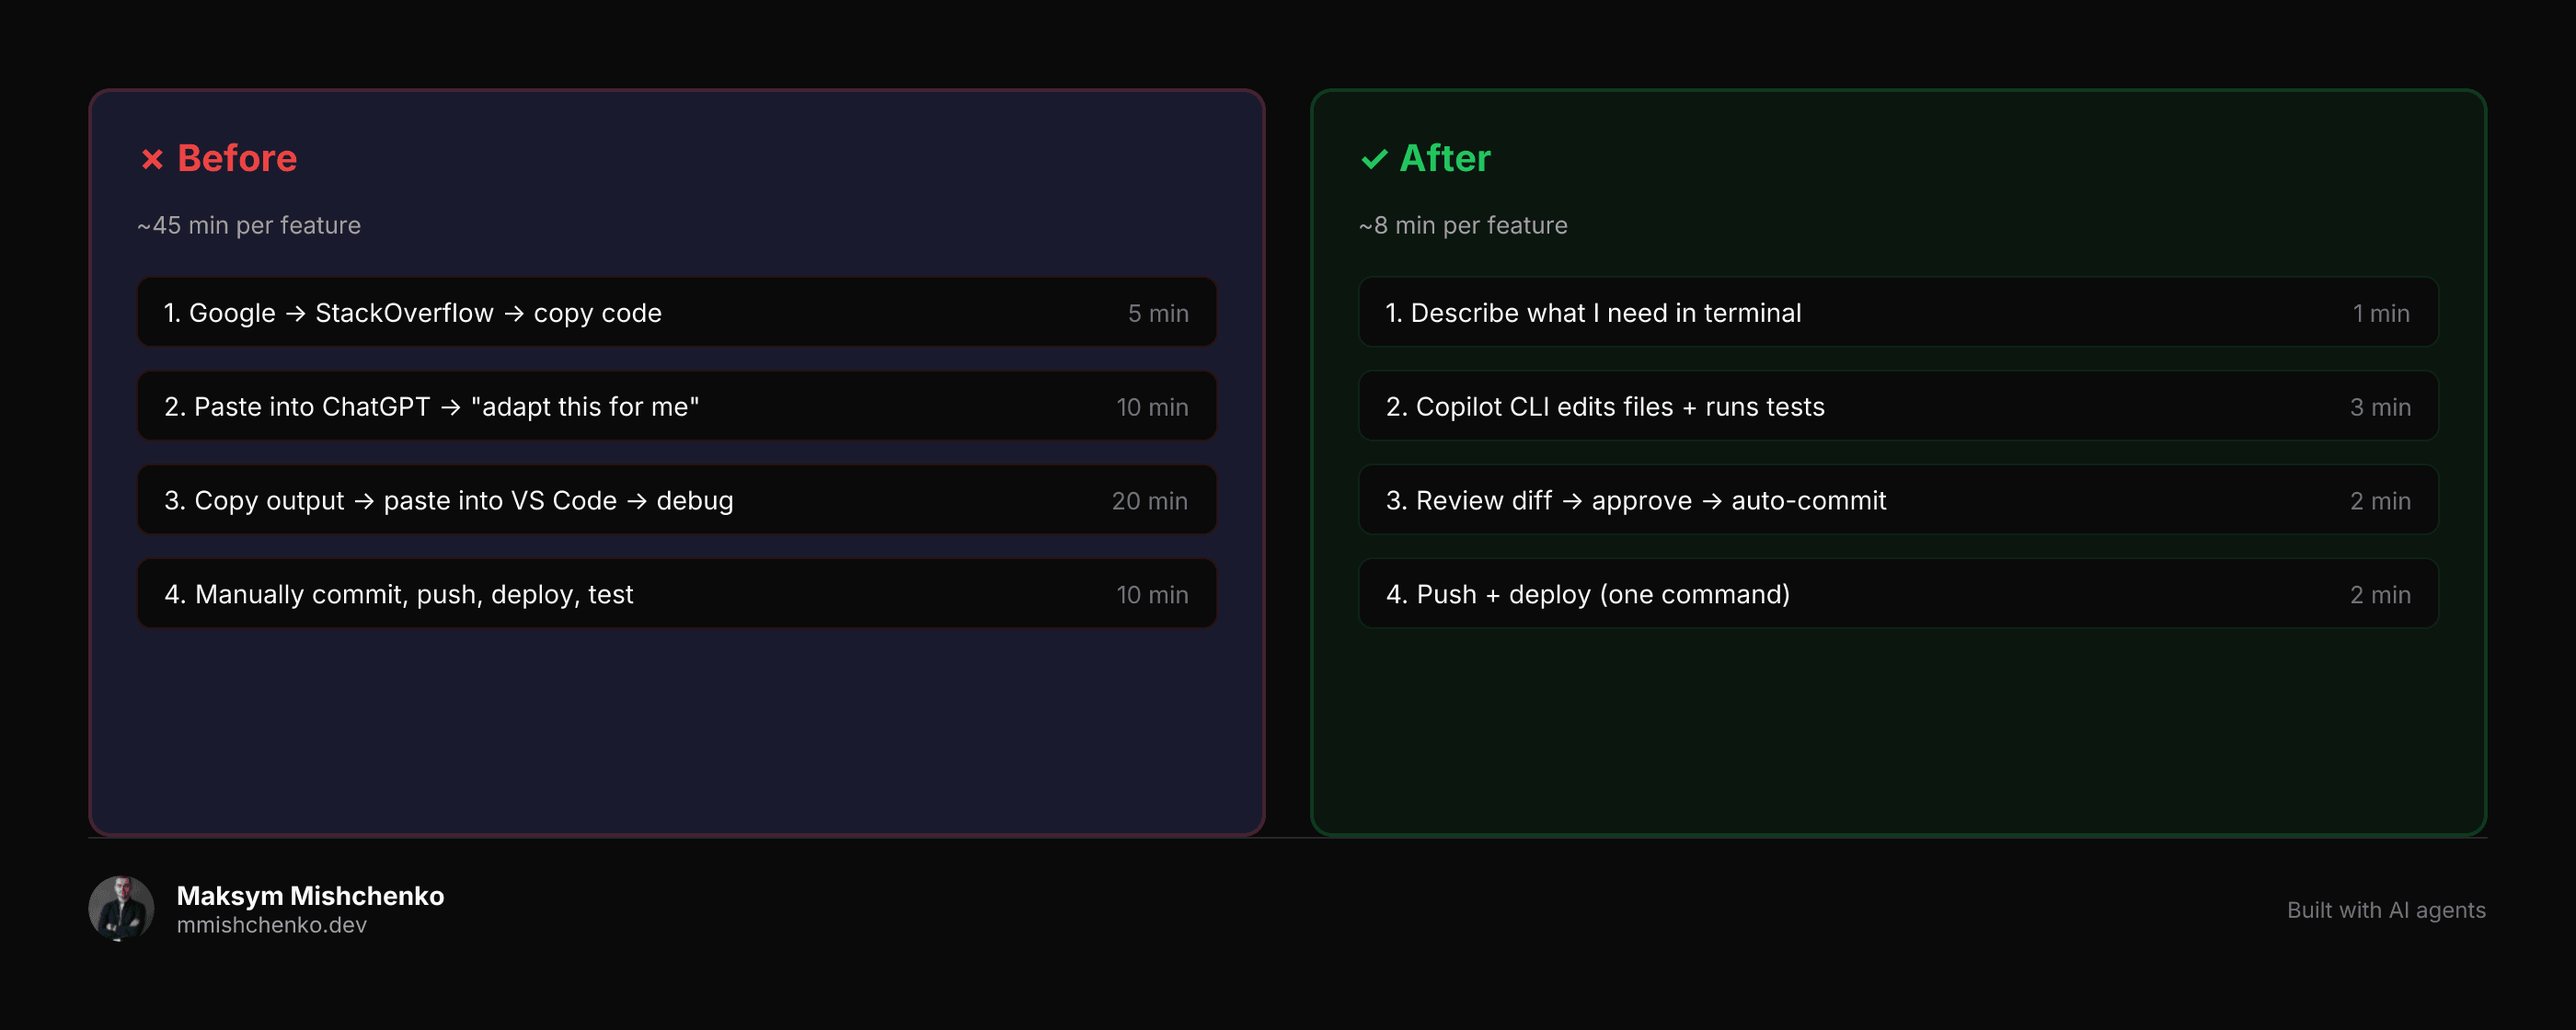
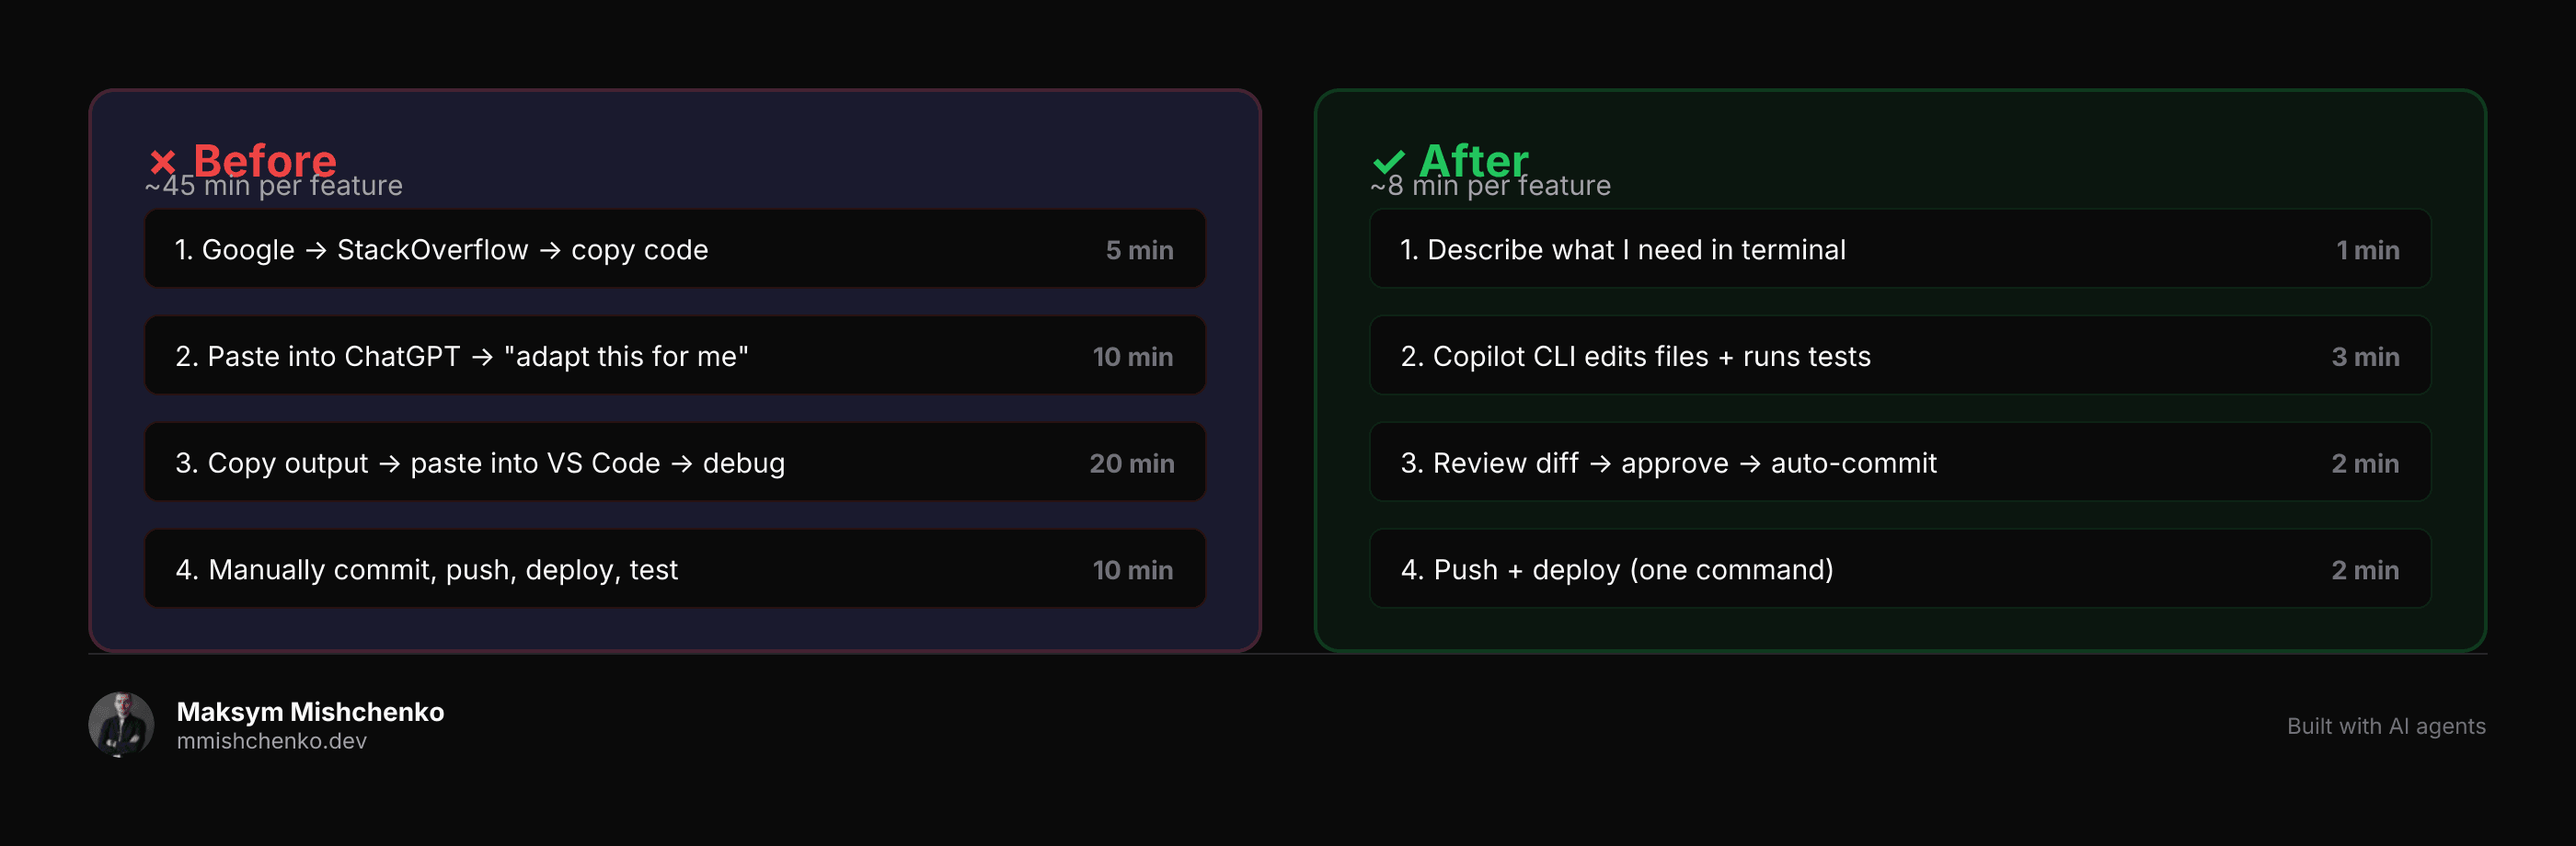
fix: improve blog image layout — center content, reduce dead space
- Vertically center all template content
- Increase font sizes for readability
- Reduce image heights (380/460/440 vs 500/560/600)
- Add stretch alignment to comparison columns

diff --git a/scripts/blog-images/generate.ts b/scripts/blog-images/generate.ts
@@ -135,14 +135,14 @@ function TimelineTemplate({ title, steps, avatar }: { title: string; steps: Time
         {
           type: "div",
           props: {
-            style: { color: COLORS.muted, fontSize: 16, letterSpacing: 2, textTransform: "uppercase", marginBottom: 32, display: "flex" },
+            style: { color: COLORS.muted, fontSize: 16, letterSpacing: 2, textTransform: "uppercase", display: "flex" },
             children: title,
           },
         },
         {
           type: "div",
           props: {
-            style: { display: "flex", alignItems: "center", gap: 16, flex: 1, justifyContent: "center" },
+            style: { display: "flex", alignItems: "center", gap: 20, flex: 1, justifyContent: "center" },
             children: steps.flatMap((step, i) => {
               const box = {
                 type: "div",
@@ -151,21 +151,21 @@ function TimelineTemplate({ title, steps, avatar }: { title: string; steps: Time
                     display: "flex",
                     flexDirection: "column",
                     alignItems: "center",
-                    padding: "20px 24px",
+                    padding: "24px 28px",
                     background: step.highlight ? COLORS.green + "22" : COLORS.card,
                     border: `2px solid ${step.highlight ? COLORS.green : COLORS.border}`,
-                    borderRadius: 12,
-                    minWidth: 180,
+                    borderRadius: 14,
+                    minWidth: 200,
                   },
                   children: [
-                    { type: "span", props: { style: { color: COLORS.accent, fontSize: 12, marginBottom: 4, display: "flex" }, children: step.year } },
-                    { type: "span", props: { style: { color: COLORS.text, fontSize: 18, fontWeight: 700, marginBottom: 4, display: "flex" }, children: `${step.emoji} ${step.title}` } },
-                    { type: "span", props: { style: { color: COLORS.muted, fontSize: 13, textAlign: "center", display: "flex" }, children: step.subtitle } },
+                    { type: "span", props: { style: { color: COLORS.accent, fontSize: 13, marginBottom: 6, display: "flex" }, children: step.year } },
+                    { type: "span", props: { style: { color: COLORS.text, fontSize: 20, fontWeight: 700, marginBottom: 6, display: "flex" }, children: `${step.emoji} ${step.title}` } },
+                    { type: "span", props: { style: { color: COLORS.muted, fontSize: 14, textAlign: "center", display: "flex" }, children: step.subtitle } },
                   ],
                 },
               };
               if (i < steps.length - 1) {
-                return [box, { type: "span", props: { style: { color: COLORS.dim, fontSize: 24, display: "flex" }, children: "→" } }];
+                return [box, { type: "span", props: { style: { color: COLORS.dim, fontSize: 28, display: "flex" }, children: "→" } }];
               }
               return [box];
             }),
@@ -191,15 +191,16 @@ function ComparisonTemplate({ before, after, avatar }: { before: { title: string
           display: "flex",
           flexDirection: "column",
           flex: 1,
-          padding: 24,
+          padding: 28,
           background: side === "before" ? COLORS.card : COLORS.green + "11",
           border: `2px solid ${color}33`,
-          borderRadius: 12,
-          gap: 12,
+          borderRadius: 14,
+          gap: 14,
+          justifyContent: "center",
         },
         children: [
-          { type: "div", props: { style: { color, fontSize: 20, fontWeight: 700, marginBottom: 4, display: "flex" }, children: data.title } },
-          { type: "div", props: { style: { color: COLORS.muted, fontSize: 13, marginBottom: 8, display: "flex" }, children: data.subtitle } },
+          { type: "div", props: { style: { color, fontSize: 24, fontWeight: 700, marginBottom: 4, display: "flex" }, children: data.title } },
+          { type: "div", props: { style: { color: COLORS.muted, fontSize: 15, marginBottom: 8, display: "flex" }, children: data.subtitle } },
           ...data.items.map((item, i) => ({
             type: "div",
             props: {
@@ -207,14 +208,14 @@ function ComparisonTemplate({ before, after, avatar }: { before: { title: string
                 display: "flex",
                 justifyContent: "space-between",
                 alignItems: "center",
-                padding: "10px 14px",
+                padding: "12px 16px",
                 background: COLORS.bg,
                 borderRadius: 8,
                 border: `1px solid ${color}22`,
               },
               children: [
-                { type: "span", props: { style: { color: COLORS.text, fontSize: 14, display: "flex" }, children: `${i + 1}. ${item.text}` } },
-                { type: "span", props: { style: { color: COLORS.dim, fontSize: 13, display: "flex" }, children: item.time } },
+                { type: "span", props: { style: { color: COLORS.text, fontSize: 15, display: "flex" }, children: `${i + 1}. ${item.text}` } },
+                { type: "span", props: { style: { color: COLORS.dim, fontSize: 14, fontWeight: 600, display: "flex" }, children: item.time } },
               ],
             },
           })),
@@ -239,7 +240,7 @@ function ComparisonTemplate({ before, after, avatar }: { before: { title: string
         {
           type: "div",
           props: {
-            style: { display: "flex", gap: 24, flex: 1 },
+            style: { display: "flex", gap: 28, flex: 1, alignItems: "stretch" },
             children: [
               Column({ data: before, color: COLORS.red, side: "before" }),
               Column({ data: after, color: COLORS.green, side: "after" }),
@@ -272,61 +273,70 @@ function FlowTemplate({ title, input, steps, outputs, avatar }: { title: string;
         fontFamily: "Inter",
       },
       children: [
-        { type: "div", props: { style: { color: COLORS.muted, fontSize: 16, letterSpacing: 2, textTransform: "uppercase", marginBottom: 24, display: "flex" }, children: title } },
-        // Input
+        { type: "div", props: { style: { color: COLORS.muted, fontSize: 16, letterSpacing: 2, textTransform: "uppercase", marginBottom: 16, display: "flex" }, children: title } },
+        // Content area - centered vertically
         {
           type: "div",
           props: {
-            style: { display: "flex", alignItems: "center", marginBottom: 20 },
+            style: { display: "flex", flexDirection: "column", flex: 1, justifyContent: "center", alignItems: "center", gap: 16 },
             children: [
-              { type: "span", props: { style: { color: COLORS.orange, fontSize: 12, marginRight: 12, display: "flex" }, children: "YOU" } },
+              // Input
               {
                 type: "div",
                 props: {
-                  style: { display: "flex", padding: "12px 20px", background: COLORS.card, border: `2px solid ${COLORS.orange}`, borderRadius: 8 },
-                  children: [{ type: "span", props: { style: { color: COLORS.text, fontSize: 15, display: "flex" }, children: `${input.emoji} ${input.text}` } }],
+                  style: { display: "flex", alignItems: "center", gap: 12 },
+                  children: [
+                    { type: "span", props: { style: { color: COLORS.orange, fontSize: 14, fontWeight: 700, display: "flex" }, children: "YOU" } },
+                    {
+                      type: "div",
+                      props: {
+                        style: { display: "flex", padding: "14px 28px", background: COLORS.card, border: `2px solid ${COLORS.orange}`, borderRadius: 10 },
+                        children: [{ type: "span", props: { style: { color: COLORS.text, fontSize: 17, display: "flex" }, children: `${input.emoji} ${input.text}` } }],
+                      },
+                    },
+                  ],
+                },
+              },
+              // Arrow down
+              { type: "div", props: { style: { color: COLORS.dim, fontSize: 24, display: "flex" }, children: "↓" } },
+              // Steps row
+              {
+                type: "div",
+                props: {
+                  style: { display: "flex", gap: 16, alignItems: "center" },
+                  children: steps.flatMap((step, i) => {
+                    const box = {
+                      type: "div",
+                      props: {
+                        style: { display: "flex", flexDirection: "column", alignItems: "center", padding: "18px 24px", background: COLORS.cardHighlight, border: `1px solid ${COLORS.accent}`, borderRadius: 10, minWidth: 160 },
+                        children: [
+                          { type: "span", props: { style: { fontSize: 17, fontWeight: 700, color: COLORS.text, display: "flex" }, children: `${step.emoji} ${step.title}` } },
+                          { type: "span", props: { style: { fontSize: 13, color: COLORS.muted, marginTop: 6, display: "flex" }, children: step.subtitle } },
+                        ],
+                      },
+                    };
+                    if (i < steps.length - 1) return [box, { type: "span", props: { style: { color: COLORS.accent, fontSize: 22, display: "flex" }, children: "→" } }];
+                    return [box];
+                  }),
+                },
+              },
+              // Arrow down
+              { type: "div", props: { style: { color: COLORS.dim, fontSize: 24, display: "flex" }, children: "↓" } },
+              // Outputs row
+              {
+                type: "div",
+                props: {
+                  style: { display: "flex", gap: 16 },
+                  children: outputs.map((out) => ({
+                    type: "div",
+                    props: {
+                      style: { display: "flex", padding: "12px 24px", background: COLORS.green + "22", border: `1px solid ${COLORS.green}`, borderRadius: 10 },
+                      children: [{ type: "span", props: { style: { color: COLORS.green, fontSize: 16, fontWeight: 600, display: "flex" }, children: out } }],
+                    },
+                  })),
                 },
               },
             ],
-          },
-        },
-        // Arrow down
-        { type: "div", props: { style: { color: COLORS.dim, fontSize: 20, marginLeft: 60, marginBottom: 12, display: "flex" }, children: "↓" } },
-        // Steps row
-        {
-          type: "div",
-          props: {
-            style: { display: "flex", gap: 12, alignItems: "center", marginBottom: 20 },
-            children: steps.flatMap((step, i) => {
-              const box = {
-                type: "div",
-                props: {
-                  style: { display: "flex", flexDirection: "column", alignItems: "center", padding: "14px 18px", background: COLORS.cardHighlight, border: `1px solid ${COLORS.accent}`, borderRadius: 8, minWidth: 140 },
-                  children: [
-                    { type: "span", props: { style: { fontSize: 15, fontWeight: 700, color: COLORS.text, display: "flex" }, children: `${step.emoji} ${step.title}` } },
-                    { type: "span", props: { style: { fontSize: 11, color: COLORS.muted, marginTop: 4, display: "flex" }, children: step.subtitle } },
-                  ],
-                },
-              };
-              if (i < steps.length - 1) return [box, { type: "span", props: { style: { color: COLORS.accent, fontSize: 18, display: "flex" }, children: "→" } }];
-              return [box];
-            }),
-          },
-        },
-        // Arrow down
-        { type: "div", props: { style: { color: COLORS.dim, fontSize: 20, marginLeft: 60, marginBottom: 12, display: "flex" }, children: "↓" } },
-        // Outputs row
-        {
-          type: "div",
-          props: {
-            style: { display: "flex", gap: 12 },
-            children: outputs.map((out) => ({
-              type: "div",
-              props: {
-                style: { display: "flex", padding: "10px 18px", background: COLORS.green + "22", border: `1px solid ${COLORS.green}`, borderRadius: 8 },
-                children: [{ type: "span", props: { style: { color: COLORS.green, fontSize: 14, fontWeight: 600, display: "flex" }, children: out } }],
-              },
-            })),
           },
         },
         BrandingFooter({ avatar }),
@@ -375,7 +385,7 @@ async function main() {
       ],
     }),
     1400,
-    500,
+    380,
     "evolution.png"
   );
 
@@ -405,7 +415,7 @@ async function main() {
       },
     }),
     1400,
-    560,
+    460,
     "before-after.png"
   );
 
@@ -424,7 +434,7 @@ async function main() {
       outputs: ["Git Commit", "PR Ready", "Deployed"],
     }),
     1400,
-    600,
+    440,
     "prompt-flow.png"
   );
 
